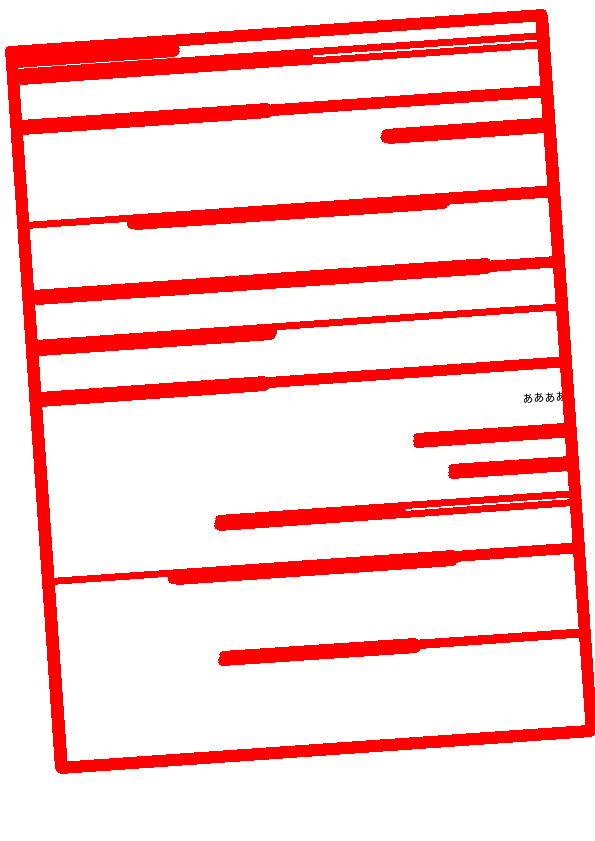
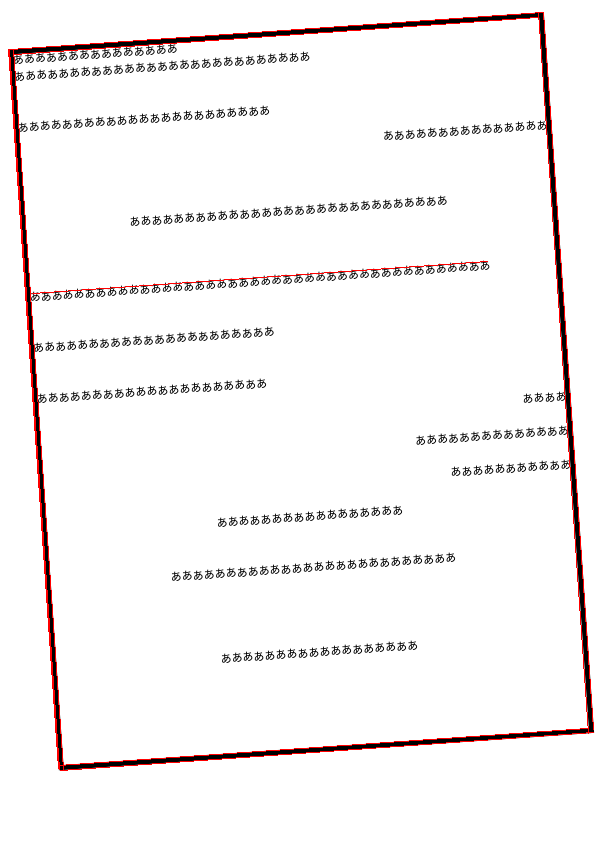
Fix: 直線検出＆描画処理

Changed region(s): [[0.0, 0.0, 1.0, 0.9275]]

diff --git a/src/main.rs b/src/main.rs
@@ -18,7 +18,7 @@ fn main() {
     };
 
     // 出力先の画像を定義
-    let mut output_img;
+    let output_img;
     let result_read_img = imread(SOURCE_IMAGE_PATH, IMREAD_COLOR);
     match result_read_img {
         Ok(img) => output_img = img,
@@ -40,23 +40,27 @@ fn main() {
     };
 
     // ハフ変換による直線検出
+    let mut line_img = output_img.clone();
     let mut lines= VectorOfVec4i::default();
-    let result_hough_lines = hough_lines_p(&edge_img, &mut lines, 1.0, CV_PI / 180.0, 50, 0.0, 1000.0);
+    let result_hough_lines= hough_lines_p(&edge_img, &mut lines, 1.0, CV_PI / 180.0, 250, 0.0, 1000.0);
     match result_hough_lines {
         Ok(_) => {
             // 線分を描画する
             for line_vec in lines.to_vec() {
-                line(&mut output_img,
+                line(&mut line_img,
                      Point::new(line_vec[0], line_vec[1]),
                      Point::new(line_vec[2], line_vec[3]),
-                     Scalar::new(0.0, 0.0, 255.0, 1.0), 5, 0, 0).ok();
+                     Scalar::new(0.0, 0.0, 255.0, 1.0),
+                     1,
+                     0,
+                     0
+                ).ok();
             }
+            imwrite("line.png", &line_img, &Vector::new()).ok();
         },
         Err(code) => {
             print!("code: {:?}", code);
             panic!();
         }
     }
-
-    imwrite("line.png", &output_img, &Vector::new());
 }
